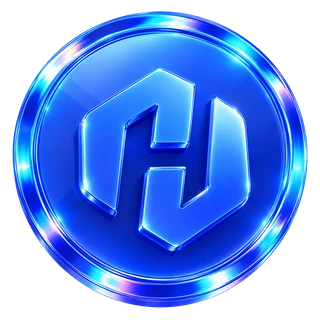
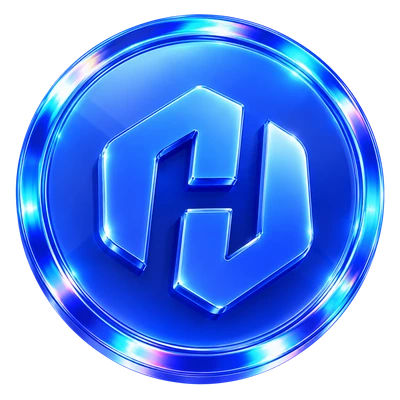
Tour step 4: show the rewards larger

diff --git a/shared/components.css b/shared/components.css
@@ -266,8 +266,8 @@
 }
 /* Animation above the title: a fixed 3:2 box, so the pop-up's height is known before the file loads. */
 .tour__art { position: relative; align-self: center; width: 100%; max-width: calc(var(--size-reward-width) * 0.96); aspect-ratio: 3 / 2; overflow: hidden; }
-/* Carousel items: stacked in the middle (41.7% of the width, a little below centre); tour.js moves, scales and fades them. */
-.tour__art img { position: absolute; left: 50%; top: 52%; width: 41.7%; aspect-ratio: 1; margin: -20.85% 0 0 -20.85%; object-fit: contain; will-change: transform, opacity; }
+/* Carousel items: stacked in the middle (--carousel-item of the width, a little below centre); tour.js moves, scales and fades them. */
+.tour__art img { position: absolute; left: 50%; top: 52%; width: var(--carousel-item); aspect-ratio: 1; margin: calc(var(--carousel-item) / -2) 0 0 calc(var(--carousel-item) / -2); object-fit: contain; will-change: transform, opacity; }
 /* Step 2 artwork: candles -> coin (+). Each part appears in turn, once, then stays. */
 .tour__flow { align-self: center; display: flex; align-items: center; gap: var(--spacing-8); padding-block: var(--spacing-4); }
 .tour__flow-item { display: block; width: calc(var(--size-avatar-lg) * 0.7); height: calc(var(--size-avatar-lg) * 0.7); object-fit: contain; }

diff --git a/shared/tour.js b/shared/tour.js
@@ -23,14 +23,15 @@ const COUNT_MS = 1500;
 const FINGER_AFTER = 4;
 const FINGER_TIP = { x: 0.9, y: 0.03 };
 
-// Carousels: how many items (assets/tour/<name>-<n>.webp) and how long each rests at the front, in seconds.
+// Carousels: how many items (assets/tour/<name>-<n>.webp), how long each rests at the front (seconds), and the
+// front item's size as a share of the artwork's width.
 const CAROUSELS = {
-  'step-1': { holds: [2, 4, 4, 4] },
-  'step-4': { holds: [2.5, 2.5, 2.5, 2.5, 2.5] },
+  'step-1': { holds: [2, 4, 4, 4], size: 41.7 },
+  'step-4': { holds: [2.5, 2.5, 2.5, 2.5, 2.5], size: 56 }, // rewards are shown larger
 };
 const CAROUSEL_MOVE = 1.2; // seconds to change from one item to the next
 const carousel = (name) => `
-  <div class="tour__art" data-carousel="${name}" aria-hidden="true">
+  <div class="tour__art" data-carousel="${name}" style="--carousel-item:${CAROUSELS[name].size}%" aria-hidden="true">
     ${CAROUSELS[name].holds.map((_, index) => `<img src="../assets/tour/${name}-${index + 1}.webp" alt="" ${index ? 'style="opacity:0"' : ''}>`).join('')}
   </div>`;
 const smooth = (t) => t * t * (3 - 2 * t);

diff --git a/tools/build-tour-animation.py b/tools/build-tour-animation.py
@@ -4,7 +4,7 @@
 The pages animate still images in code (shared/tour.js, `carousel`), which stays sharp on every screen and is far
 lighter than a video. This script exports those stills:
 
-    python3 tools/build-tour-animation.py            -> assets/tour/<name>-<n>.webp, one per item, 320px
+    python3 tools/build-tour-animation.py            -> assets/tour/<name>-<n>.webp, one per item, 400px
 
 It can also render the same motion as a video with a transparent background, for use outside the pages:
 
@@ -30,7 +30,7 @@ ROOT = Path(__file__).resolve().parent.parent
 SOURCE = ROOT / 'Design Elements' / 'Tutorial' / 'Animation'
 OUT = ROOT / 'assets' / 'tour'
 VIDEO_OUT = ROOT / 'dist' / 'tour-animation'
-STILL_SIZE = 320                # px: 3x the largest size an item is shown at (about 96px)
+STILL_SIZE = 400                # px: about 3x the largest size an item is shown at (up to 130px)
 # name -> source folder, items in order of appearance at the front, seconds each one rests there.
 ANIMATIONS = {
     'step-1': {

diff --git a/spec.md b/spec.md
@@ -445,9 +445,9 @@ A five-step tour that explains how to earn coins and redeem gifts. Steps 1–2 r
 
 Copy revised on 7 Oct 2026 (final wording from the content review). The "How it works" rules now read: `Hold each position for at least 3 minutes. Shorter trades earn 0 coins.` · `Coins are credited 3 days after the trading day.` (in-day: `Coins are credited throughout the day, every 30 minutes.`) · `Coins expire 30 days after they are credited.` · `A new earning day starts at 00:00 WIB. Coins you’ve already earned are kept.` · `Earn up to 10,000 coins per day.` This replaces the rule wording in §4.5 and §15.
 
-- **Step 1 animation:** above the title, a looping carousel: coin → crown → gift box → cup travel right to left on an ellipse. Only the front item is visible: it shrinks and fades out as it moves off to the left edge, while the next one fades in from the right edge. The coin opens the loop and rests 2 s, every other item rests 4 s; each change takes 1.2 s. Shown 230px wide. It is animated in code from still images (`assets/tour/step-1-<n>.webp`, 320px each), so it stays sharp on every screen and is light (about 110 KB for the four); an animated-file version was dropped because it looked pixelated on phones. `tools/build-tour-animation.py` exports the stills from `Design Elements/Tutorial/Animation/Step 1` and can render the same motion as a transparent WebM (`--video`) for use elsewhere. With reduced motion the first item stays still.
+- **Step 1 animation:** above the title, a looping carousel: coin → crown → gift box → cup travel right to left on an ellipse. Only the front item is visible: it shrinks and fades out as it moves off to the left edge, while the next one fades in from the right edge. The coin opens the loop and rests 2 s, every other item rests 4 s; each change takes 1.2 s. Shown 230px wide. It is animated in code from still images (`assets/tour/step-1-<n>.webp`, 400px each), so it stays sharp on every screen and is light (about 150 KB for the four); an animated-file version was dropped because it looked pixelated on phones. `tools/build-tour-animation.py` exports the stills from `Design Elements/Tutorial/Animation/Step 1` and can render the same motion as a transparent WebM (`--video`) for use elsewhere. With reduced motion the first item stays still.
 - **Step 2 artwork:** above the title, `[candles] → [coin] +`. It plays once and then stays still, so it does not distract from the rules: the candles appear, then the arrow, then the coin pops in and a green `+` pops onto it (two small plus signs float up and vanish). About 2.5 s in total. Built in code from two still images (`assets/tour/step-2-candles.webp`, `step-2-coin.webp`), not a video file. With reduced motion everything is simply shown.
-- **Step 4 animation:** above the title, the same carousel with five rewards (`assets/tour/step-4-<n>.webp`, artwork from `Design Elements/Tutorial/Animation/Step 4`): phone → earbuds → laptop → suitcase and plane → foldable phone. Each rests 2.5 s, each change takes 1.2 s.
+- **Step 4 animation:** above the title, the same carousel with five rewards (`assets/tour/step-4-<n>.webp`, artwork from `Design Elements/Tutorial/Animation/Step 4`): phone → earbuds → laptop → suitcase and plane → foldable phone. Each rests 2.5 s, each change takes 1.2 s. The rewards are shown larger than the step 1 items (about 130px against 96px).
 - **Step 4 effect:** when the step opens, eight small gift boxes (the gift from the step 1 artwork, `assets/tour/gift.webp`) pop up one after another around the `Redeem` button, drift up and fade. It plays once, about 2 s. None with reduced motion.
 - **Step 1 sparkles:** before the finger arrives, fourteen gold sparkles (`assets/tour/sparkle.webp`), large and small (6–17px), pop at random spots around the `Start tour` button (four of them always above it) in random order, from 2 s to about 4.1 s; the finger sits above them; the finger comes in together with the first sparkles, at 2 s. Step 1 only; none with reduced motion.
 - **Finger hint:** on every step a finger appears just under the main (blue) button, pointing up at it, then taps gently: after 2 s on step 1 (together with the sparkles) after 7 s on step 2 (it has the rules to read), and after 4 s on the other steps. It grows in softly from its fingertip over 0.8 s, the way the sparkles pop in. It never blocks taps. Artwork (final, 7 Oct 2026): the skin-tone 3D hand, `assets/tour/finger.webp`; the blue glass and peach glass options were dropped.
